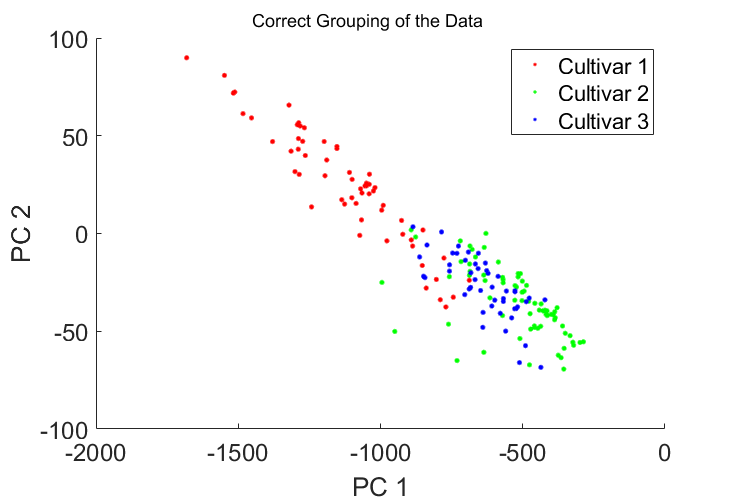
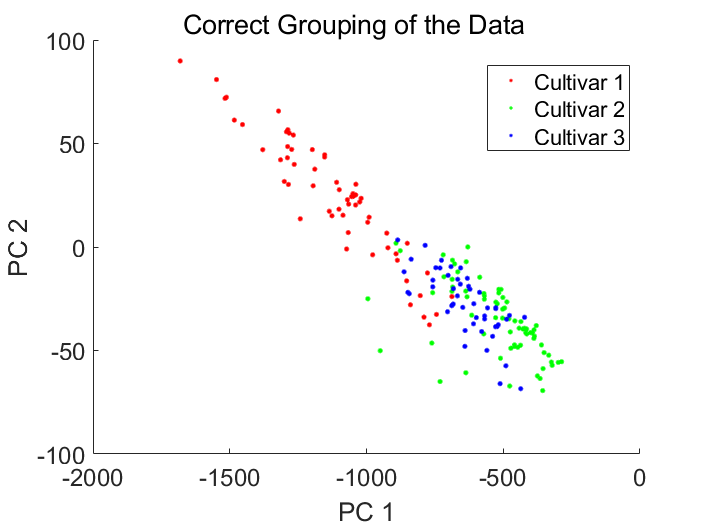
Cardiac Analysis Added

diff --git a/WineAnalysis.m b/WineAnalysis.m
@@ -35,7 +35,7 @@ legend("Cultivar 1","Cultivar 2","Cultivar 3")
 xlabel("PC 1");
 ylabel("PC 2");
 set(gca,'FontSize', 18);
-sgtitle("Correct Grouping of the Data")
+sgtitle("Correct Grouping of the Data", 'FontSize', 20)
 hold off
 
 %Cluster using kMedoids
@@ -55,7 +55,7 @@ legend("Cluster A","Cluster B","Cluster C");
 xlabel("PC 1")
 ylabel("PC 2"); 
 set(gca,'FontSize', 18);
-sgtitle("Clustering Given by kMedoids")
+sgtitle("Clustering Given by kMedoids", 'FontSize', 20)
 hold off
 
 disp("Clustering Matrix for kMedoids");
@@ -77,7 +77,7 @@ legend("Cluster A","Cluster B","Cluster C");
 xlabel("PC 1")
 ylabel("PC 2"); 
 set(gca,'FontSize', 18);
-sgtitle("Clustering Given by kMeans")
+sgtitle("Clustering Given by kMeans", 'FontSize', 20)
 hold off
 
 disp("Clustering Matrix for kMeans");

diff --git a/CardiacAnalysis.m b/CardiacAnalysis.m
@@ -1,0 +1,24 @@
+%Levent Batakci
+%Analyze the data!
+
+%Clear vars
+clc
+clear all
+
+k=3;
+tau=0.05;
+maxDepth=5;
+
+%Load Cardiac Data
+load CardiacSPECT.mat
+I=I+1; %Fix the annotation
+
+k=2;
+distMatrix = dMatrix(X, @dissimilarityCardiac);
+[I2, iC2] = kMedoids_distMatrix(k, distMatrix, tau, maxDepth);
+
+X(:,iC2);
+
+evaluateClustering(I,I2,k)
+
+%Show the representative vectors

diff --git a/Helper Functions/kMedoids_distMatrix.m b/Helper Functions/kMedoids_distMatrix.m
@@ -3,7 +3,7 @@
 %MATH444 Assignment 2
 
 function [I, iC] = kMedoids_distMatrix(k, distMatrix, tau, maxDepth)
-%KMEDOIDS is a function that separates the data into
+%KMEDOIDS_DISTMATRIX is a function that separates the data into
 %  k clusters by using alternating optimization.
 %This optimization is iterative, and stops when the
 %  change in coherence < tau
